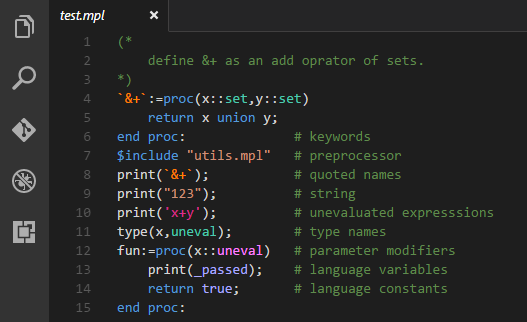
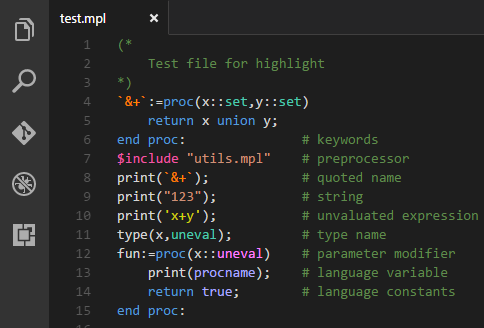
change color settings.

diff --git a/.vscodeignore/test.css b/.vscodeignore/test.css
@@ -1,0 +1,7 @@
+.foo{
+    color:#ff80ff;/* modifier */
+    color:#ff8000;/* quoted name */
+    color:#d0d00f;/* unevaluated expression */
+    color:#aaaaff;/* language variable and constant */
+    color:#ee5aa5;/* preprocessor */
+}
